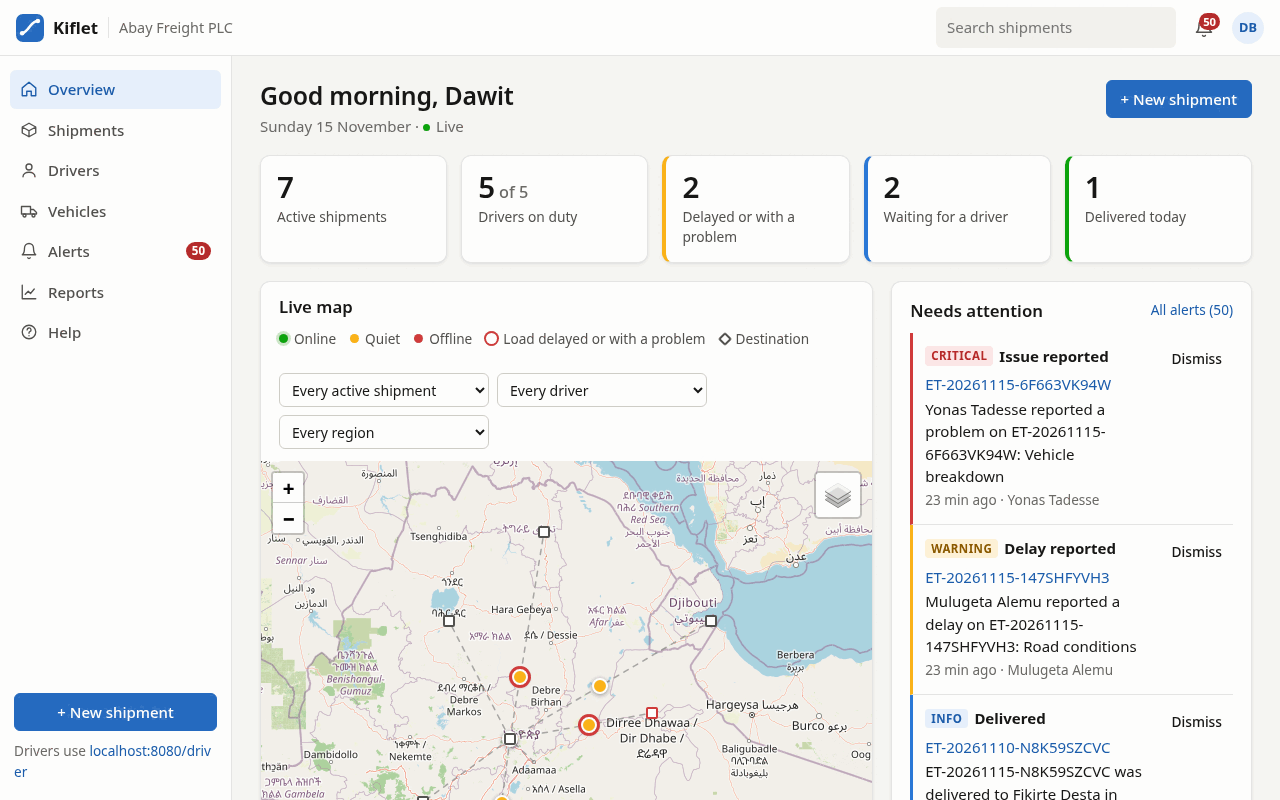
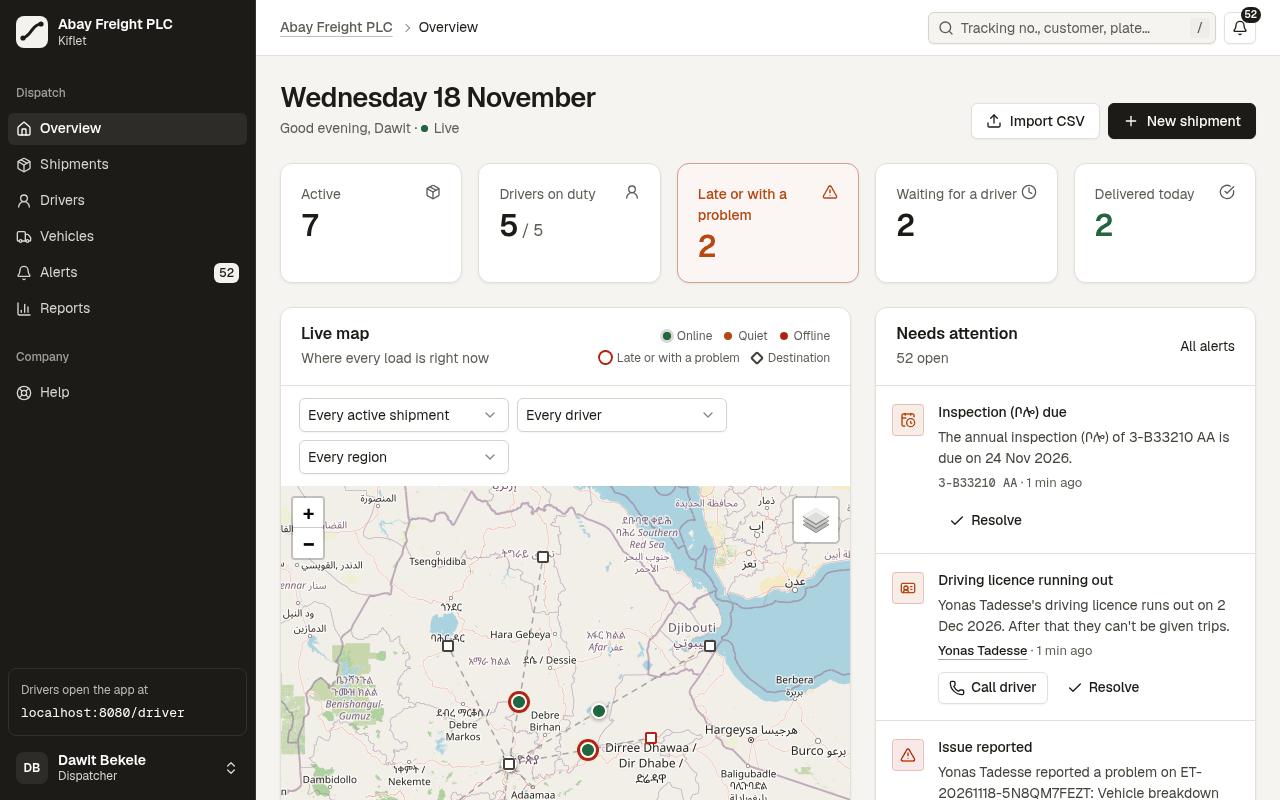
README: new screenshots and what the redesign added
The overview and the driver app's first screen are retaken from a freshly
seeded demo at the same sizes as before (1280 x 800, and 390 x 480 at
twice the density), reduced to 256 colours. The feature list gains
documents and charges, pieces, papers, alert rules and recipients, Help's
support channels, the themes and the tracking page's distance left.

Taking the overview showed its five numbers wrapping onto two rows at
1280 pixels; they now stay on one (kpis-5), as do the platform health
page's.

diff --git a/internal/web/templates/app/dashboard.html b/internal/web/templates/app/dashboard.html
@@ -24,7 +24,7 @@
 </section>
 {{end}}
 
-<section class="kpis" data-live-region id="dash-kpis" aria-label="Today at a glance">
+<section class="kpis kpis-5" data-live-region id="dash-kpis" aria-label="Today at a glance">
   <a class="kpi" href="/app/shipments?tab=active"><span class="kpi-n">{{$d.Active}}</span><span class="kpi-l">Active</span>{{icon "package"}}</a>
   <a class="kpi" href="/app/drivers"><span class="kpi-n">{{$d.OnDuty}}<span class="kpi-of"> / {{$d.ActiveDrivers}}</span></span><span class="kpi-l">Drivers on duty</span>{{icon "user-round"}}</a>
   <a class="kpi {{if $d.Attention}}kpi-warn{{end}}" href="/app/shipments?tab=attention"><span class="kpi-n">{{$d.Attention}}</span><span class="kpi-l">Late or with a problem</span>{{icon "triangle-alert"}}</a>

diff --git a/internal/web/static/app.css b/internal/web/static/app.css
@@ -712,6 +712,9 @@ table[data-hide~="due"] [data-col="due"] { display: none; }
 .plan-headline .muted { font-size: 1rem; font-weight: 400; letter-spacing: 0; }
 .col-main > .kpis { margin-bottom: 0; }
 .kpis-4 { grid-template-columns: repeat(4, minmax(0, 1fr)); }
+.kpis-5 { grid-template-columns: repeat(5, minmax(0, 1fr)); }
+@media (max-width: 1100px) { .kpis-5 { grid-template-columns: repeat(3, minmax(0, 1fr)); } }
+@media (max-width: 640px) { .kpis-5 { grid-template-columns: repeat(2, minmax(0, 1fr)); } }
 .kpis-6 { grid-template-columns: repeat(6, minmax(0, 1fr)); }
 @media (max-width: 1280px) { .kpis-6 { grid-template-columns: repeat(3, minmax(0, 1fr)); } }
 @media (max-width: 640px) { .kpis-6 { grid-template-columns: repeat(2, minmax(0, 1fr)); } }

diff --git a/internal/web/templates/app/platform_health.html b/internal/web/templates/app/platform_health.html
@@ -7,7 +7,7 @@
   <div class="actions"><a class="btn" href="/app/platform/health">Refresh</a></div>
 </div>
 
-<section class="kpis">
+<section class="kpis kpis-5">
   <div class="kpi"><span class="kpi-n">{{millis $h.DBLatency}}</span><span class="kpi-l">Database round trip</span></div>
   <div class="kpi"><span class="kpi-n">{{bytes $h.DBSize}}</span><span class="kpi-l">Database size</span></div>
   <div class="kpi"><span class="kpi-n">{{$h.PoolInUse}} of {{$h.PoolTotal}}</span><span class="kpi-l">Database connections in use</span></div>

diff --git a/README.md b/README.md
@@ -5,7 +5,7 @@ A *kiflet* (ቅፍለት) is a caravan.
 
 | The dispatcher's overview | The driver app |
 |---|---|
-| <img src="docs/images/dashboard.png" alt="The overview: counts of active, delayed and waiting shipments, a live map of the trucks between Addis Ababa and Djibouti, and the alerts that need attention" width="640"> | <img src="docs/images/driver-app.png" alt="The driver app on a phone: two active shipments with their status, route and due time" width="260"> |
+| <img src="docs/images/dashboard.png" alt="The overview: today's counts of active, late and waiting shipments, a live map of the trucks between Addis Ababa and Djibouti, and the alerts that need attention, with what to do about each" width="640"> | <img src="docs/images/driver-app.png" alt="The driver app on a phone: two active shipments with their status, route and due time" width="260"> |
 
 A dispatcher books a load and assigns a driver. The driver's phone keeps
 working with no signal: status changes, signatures, photos and GPS positions
@@ -24,10 +24,10 @@ perfect coverage. Drivers with feature phones report by SMS instead
 
 | For | Where | What they get |
 |---|---|---|
-| Dispatchers, fleet managers, admins | `/app` | A live fleet map (positions come while the driver app is open) with filters, route lines and a satellite view; a shipment board that updates as drivers report, with tabs, filters, saved views, sortable columns and bulk assignment; booking with a town list or a dropped pin, or many at once from a CSV file; status overrides; messages to one driver or to every driver on the road; alerts (late, not collected, problem reported, driver quiet with cargo, moving away from the destination, delivered) with optional browser notifications and email copies; each trip's GPS history; reports by period, driver and route, with CSV and PDF; printable waybills; team and vehicle management; an audit log; company settings and SMS preferences; a download of all the company's data; questions to the Kiflet team on the Help page |
+| Dispatchers, fleet managers, admins | `/app` | A live fleet map (positions come while the driver app is open) with filters, route lines and a satellite view; a shipment board that updates as drivers report, with tabs, filters, saved views, sortable columns and bulk assignment; booking with a town list or a dropped pin, with the load's weight and pieces, or many at once from a CSV file; each shipment's documents (waybills, customs papers, invoices) and charges; status overrides; messages to one driver or to every driver on the road; alerts (late, not collected, problem reported, driver quiet with cargo, a long stop outside a town, moving away from the destination, delivered, papers running out) under rules the company sets, resolved with a note, with browser notifications and copies by email or SMS to whoever the company chooses; each trip's GPS history; reports by period, driver and route, with CSV and PDF; printable waybills; team, driver and vehicle management, with driving licences, insurance and annual inspections (ቦሎ) reminded before they run out; an audit log; company settings and SMS preferences; a download of all the company's data; answers and questions to the Kiflet team on the Help page, with support by phone, Telegram or email; a light and a dark theme |
 | Drivers | `/driver/` | An installable, offline-first web app in English or Amharic: today's loads, one-tap status updates, delay and problem reports with reasons, messages to the office, delivery capture (name, signature, photos, GPS) with a warning away from the drop-off, distance and direction to the drop-off, battery saver, settings that follow the driver to a new phone, and a sync indicator that shows what is still waiting to send and when the signal is weak |
 | Drivers on feature phones | SMS | `ET <last 4> <code> [note]`, codes 1 departed, 2 delayed, 3 arrived, 4 delivered, 5 problem |
-| Customers and receivers | `/track`, SMS links | Texts and pages in English or Amharic, as the company chooses and the reader can switch: tracking by number or by phone (one-time SMS code), a coarse last-known position, and a confirm-or-report-a-problem page after delivery, which goes to whoever took delivery when a shipment names a receiver apart from its customer |
+| Customers and receivers | `/track`, SMS links | Texts and pages in English or Amharic, as the company chooses and the reader can switch: tracking by number or by phone (one-time SMS code), a coarse last-known position and the distance left, and a confirm-or-report-a-problem page after delivery, which goes to whoever took delivery when a shipment names a receiver apart from its customer |
 | Company admins | `/app/billing` | The plan and this month's usage, plan changes, printable invoices, payment by telebirr or CBE Birr, or bank transfer details |
 | A company's own systems | `/api/v1`, webhooks | A JSON API with keys an admin makes under Settings: book, list, change, assign and cancel shipments, read a shipment's history and last position, and list drivers, under the dashboard's rules. Webhooks, signed as Standard Webhooks describes and retried for a day, when a shipment is booked, changes status, is delivered or has a problem, with a log of every message. `/api/v1/openapi.json` describes both |
 | The operator | `/app/platform` | Every company with its plan and activity, trial extensions, Enterprise terms, suspension and deletion; unpaid invoices, bank transfers to record, refunds to send, monthly recurring revenue; the companies' questions; every company's audit log; system health (database, background jobs, message queues, disk) |

diff --git a/CHANGELOG.md b/CHANGELOG.md
@@ -4,6 +4,13 @@ What changed in each release, newest first.
 
 ## Unreleased
 
+### Fixed
+
+- **The overview's numbers on a laptop.** At 1280 pixels wide, the five
+  numbers at the top of the overview (and of the platform's health page)
+  wrapped onto two rows; they now stay on one, and go three, then two, to
+  a row on narrower screens.
+
 ### Added
 
 - **Support by phone and Telegram.** `SUPPORT_PHONE`, `SUPPORT_TELEGRAM`
